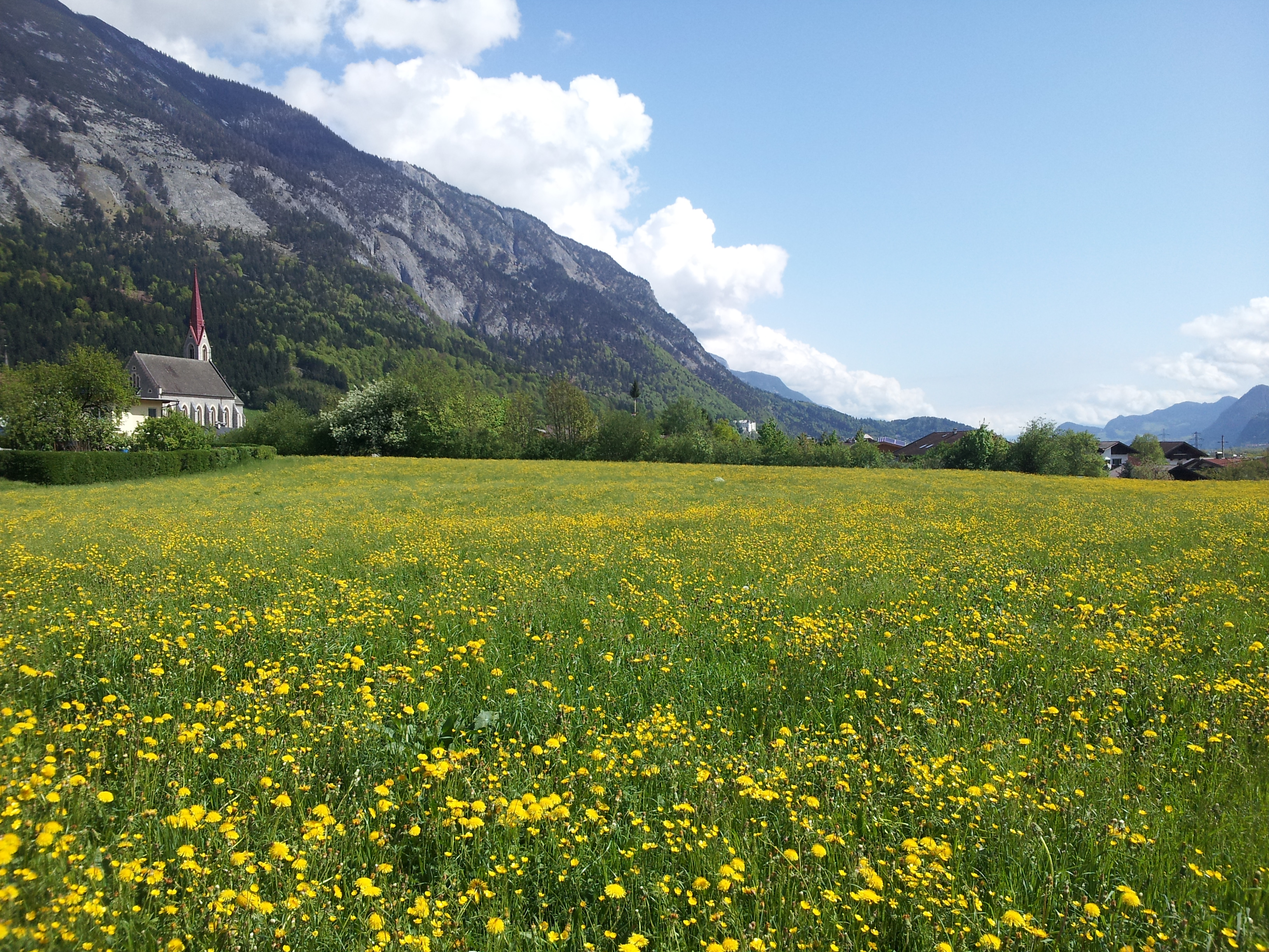
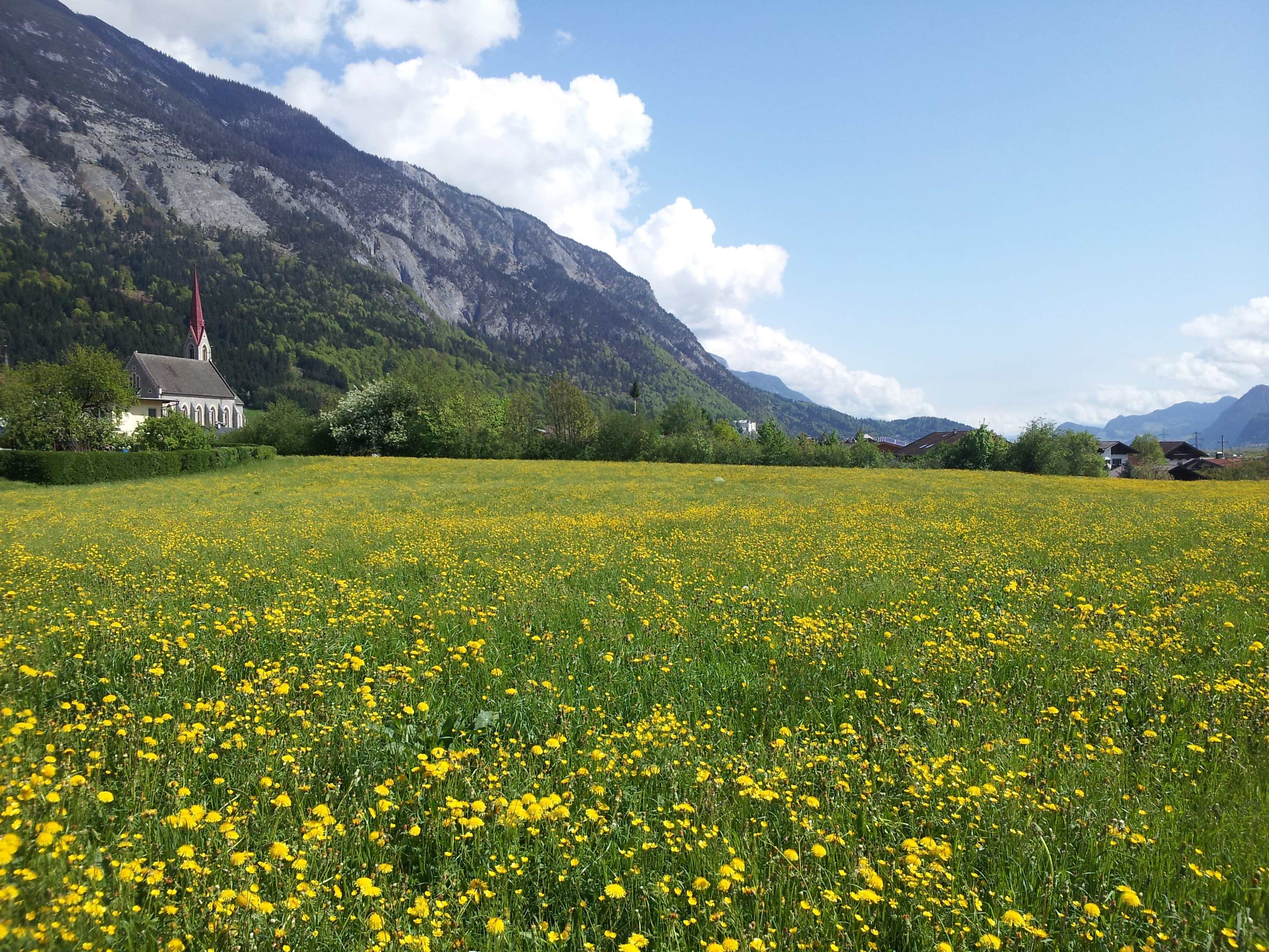
Optimized cover photo

diff --git a/rss/index.html b/rss/index.html
@@ -1,5 +1,5 @@
 <?xml version="1.0" encoding="UTF-8"?>
-<rss xmlns:dc="http://purl.org/dc/elements/1.1/" xmlns:content="http://purl.org/rss/1.0/modules/content/" xmlns:atom="http://www.w3.org/2005/Atom" version="2.0"><channel><title><![CDATA[Hi Andy!]]></title><description><![CDATA[Software Engineer & Product Manager]]></description><link>http://andysponring.com/</link><generator>Ghost 0.5</generator><lastBuildDate>Mon, 06 Apr 2015 21:10:19 GMT</lastBuildDate><atom:link href="http://andysponring.com/rss/" rel="self" type="application/rss+xml"/><ttl>60</ttl><item><title><![CDATA[My Journey to Hack Reactor]]></title><description><![CDATA[<img src="http://andysponring.com/content/images/2015/04/hrlogo.png" alt="My Journey to Hack Reactor"><p>I had been a product manager for about 5 years before I decided to take the plunge and do programming full time.</p>
+<rss xmlns:dc="http://purl.org/dc/elements/1.1/" xmlns:content="http://purl.org/rss/1.0/modules/content/" xmlns:atom="http://www.w3.org/2005/Atom" version="2.0"><channel><title><![CDATA[Hi Andy!]]></title><description><![CDATA[Software Engineer & Product Manager]]></description><link>http://andysponring.com/</link><generator>Ghost 0.5</generator><lastBuildDate>Tue, 07 Apr 2015 01:07:09 GMT</lastBuildDate><atom:link href="http://andysponring.com/rss/" rel="self" type="application/rss+xml"/><ttl>60</ttl><item><title><![CDATA[My Journey to Hack Reactor]]></title><description><![CDATA[<img src="http://andysponring.com/content/images/2015/04/hrlogo.png" alt="My Journey to Hack Reactor"><p>I had been a product manager for about 5 years before I decided to take the plunge and do programming full time.</p>
 
 <p>Why make the transition?</p>
 
